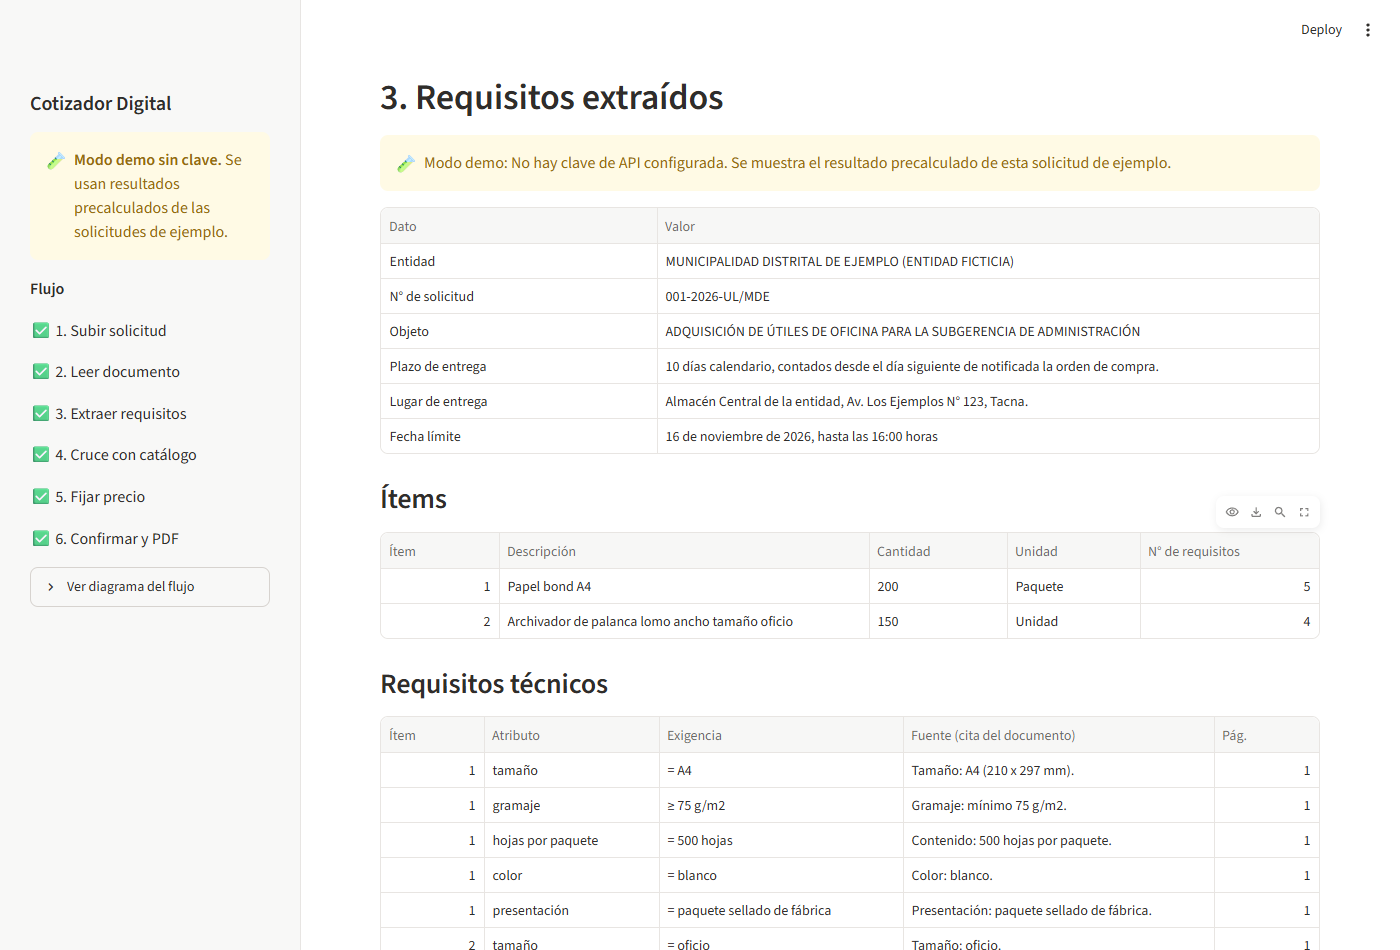
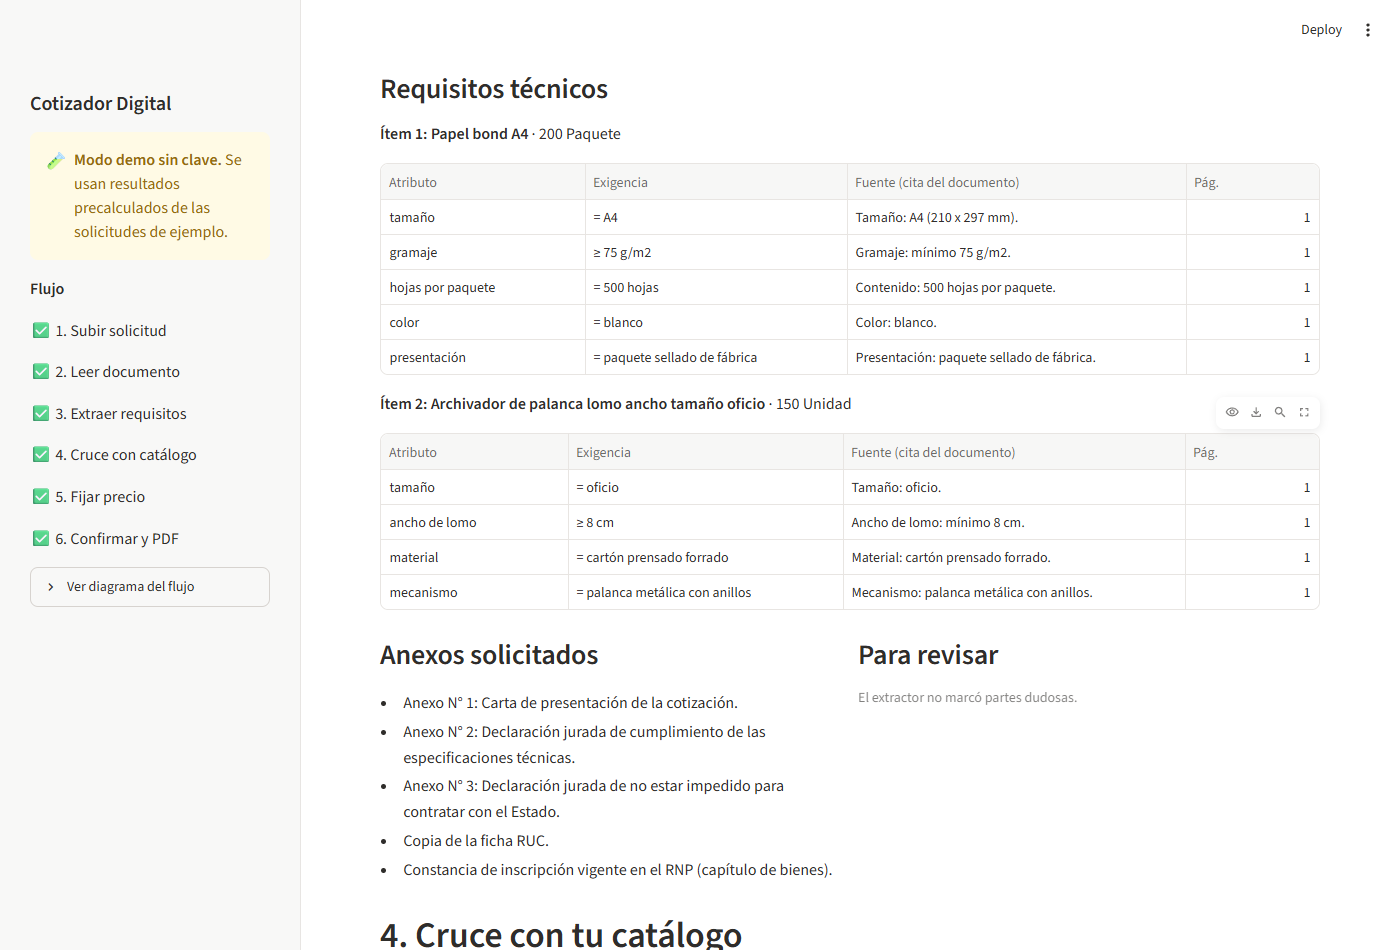
Una tabla de requisitos tecnicos por cada item
En el paso 3, los requisitos se muestran en una tabla por item, con su
descripcion, cantidad y unidad como titulo. Capturas actualizadas.

diff --git a/tests/test_app.py b/tests/test_app.py
@@ -32,21 +32,24 @@ def procesar_ejemplo(app):
 def test_flujo_con_la_solicitud_de_ejemplo_muestra_los_requisitos(app):
     procesar_ejemplo(app)
 
-    requisitos = app.dataframe[2].value  # 0: datos generales, 1: ítems, 2: requisitos
-    assert len(requisitos) == 9
-    assert "Gramaje: mínimo 75 g/m2." in requisitos["Fuente (cita del documento)"].tolist()
+    # 0: datos generales, 1: ítems, 2 y 3: una tabla de requisitos por ítem
+    papel, archivador = app.dataframe[2].value, app.dataframe[3].value
+    assert len(papel) + len(archivador) == 9
+    assert "Ítem" not in papel.columns  # cada tabla ya es de un solo ítem
+    assert "Gramaje: mínimo 75 g/m2." in papel["Fuente (cita del documento)"].tolist()
+    assert "material" in archivador["Atributo"].tolist()
     assert any("Modo demo" in aviso.value for aviso in app.warning)
 
 
 def test_cruce_recomienda_productos_y_marca_el_dato_sin_fuente(app):
     procesar_ejemplo(app)
 
-    # dataframes: 0-2 extracción; 3-4 ranking y matriz del ítem 1; 5-6 los del ítem 2
-    assert app.dataframe[3].value["SKU"].iloc[0] == "EJ-PAP-075"
+    # dataframes: 0-3 extracción; 4-5 ranking y matriz del ítem 1; 6-7 los del ítem 2
+    assert app.dataframe[4].value["SKU"].iloc[0] == "EJ-PAP-075"
     assert app.selectbox[1].value.startswith("EJ-PAP-075")
     assert app.selectbox[2].value.startswith("EJ-ARC-080")
 
-    matriz_archivador = app.dataframe[6].value
+    matriz_archivador = app.dataframe[7].value
     material = matriz_archivador[matriz_archivador["Requisito"] == "material"].iloc[0]
     assert "revisar" in material["Estado"]
     assert material["Fuente del dato"] == "— sin fuente —"

diff --git a/app/streamlit_app.py b/app/streamlit_app.py
@@ -418,21 +418,26 @@ if resultado is not None:
     )
 
     st.subheader("Requisitos técnicos")
-    filas = [
-        {
-            "Ítem": item.numero,
-            "Atributo": req.atributo,
-            "Exigencia": f"{SIMBOLOS[req.operador]} {req.valor}" + (f" {req.unidad}" if req.unidad else ""),
-            "Fuente (cita del documento)": req.texto_fuente,
-            "Pág.": req.pagina,
-        }
-        for item in solicitud.items
-        for req in item.requisitos
-    ]
-    if filas:
-        st.dataframe(pd.DataFrame(filas), hide_index=True, width="stretch")
-    else:
+    if not any(item.requisitos for item in solicitud.items):
         st.info("El documento no trae especificaciones técnicas por ítem.")
+    for item in solicitud.items:  # una tabla por ítem
+        st.markdown(f"**Ítem {item.numero}: {item.descripcion}** · "
+                    f"{formato_cantidad(item.cantidad)} {item.unidad}")
+        if not item.requisitos:
+            st.caption("Este ítem no trae especificaciones técnicas.")
+            continue
+        st.dataframe(
+            pd.DataFrame([
+                {
+                    "Atributo": req.atributo,
+                    "Exigencia": f"{SIMBOLOS[req.operador]} {req.valor}" + (f" {req.unidad}" if req.unidad else ""),
+                    "Fuente (cita del documento)": req.texto_fuente,
+                    "Pág.": req.pagina,
+                }
+                for req in item.requisitos
+            ]),
+            hide_index=True, width="stretch",
+        )
 
     col_anexos, col_dudas = st.columns(2)
     with col_anexos:

diff --git a/docs/agente.md b/docs/agente.md
@@ -17,3 +17,4 @@ El encargo original está en [`prompt_inicial.md`](prompt_inicial.md).
 | 2026-11-09 | 5 · README, revisión de secretos y guion | README con las 9 partes, diagrama de arquitectura en Mermaid y sección de datos y fuentes; 3 capturas tomadas con Edge sin ventana (playwright, instalado solo para esto, no está en `requirements.txt`); `docs/guion.md` (video de respaldo y pitch de 3 minutos); revisión de secretos en todo el historial (77 coincidencias del comando del encargo, todas nombres de variables o texto, ninguna clave); `iniciar.bat` con el reintento con certificados de Windows (el paso clave se probó a mano; la instalación completa desde cero sigue pendiente). No completó nada que dependa de Ivette: quedan marcados con ✍. | Pidió continuar con el Bloque 5. Debe completar: URL pública, historia de founder, cifras de sus conversaciones, contenido de los planes pagados, costo medido con su clave y datos reales. |
 | 2026-11-09 | Precios reales del Estado | Revisó la exportación de Ivette: es el resumen por orden (10 371 órdenes, sin precio por producto, con datos personales que no pasan a `data/`). Leyó el código de la página y el diccionario de datos oficial para confirmar que el detalle solo está en el PDF de cada orden. Revisó `robots.txt` y la declaración de datos abiertos y le presentó 3 opciones antes de programar. Escribió `backend/descargar_ordenes.py` (muestra de 50 PDF con las 10 reglas de scraping) y `backend/ordenes_pdf.py` (OCR, comprobación cantidad × unitario = total y del IGV). Resultado: `data/precios_estado.csv` con 95 precios de 18 órdenes. Verificó que el precio unitario incluye IGV. Corrigió un error de redondeo del precio sugerido que lo dejaba bajo el piso, en rojo. Agregó la captura 04 y 13 pruebas (70 en total). | Descargó la exportación de Perú Compras. Señaló que el detalle está en el PDF de cada orden y no en el CSV. Eligió la opción 1 (descarga automática de una muestra pequeña con las reglas de scraping). |
 | 2026-11-09 | URL pública | Probó la app publicada con Edge sin ventana: PDF de ejemplo (requisitos en 1 s), tarjeta de precio con los precios del Estado, foto con OCR (17 s, 99 % de confianza) y descarga del PDF después de confirmar. Verificó que antes de confirmar el botón aparece desactivado. Puso la URL en el README, el guion y `CLAUDE.md`. | Creó la app en Streamlit Community Cloud: https://cotizadordigital.streamlit.app |
+| 2026-11-09 | Requisitos por ítem | En el paso 3, cambió la tabla única de requisitos técnicos por una tabla por ítem, con su descripción, cantidad y unidad como título. Ajustó las pruebas de la app y volvió a tomar las capturas del README. | Pidió una tabla de requisitos técnicos por cada ítem. |
